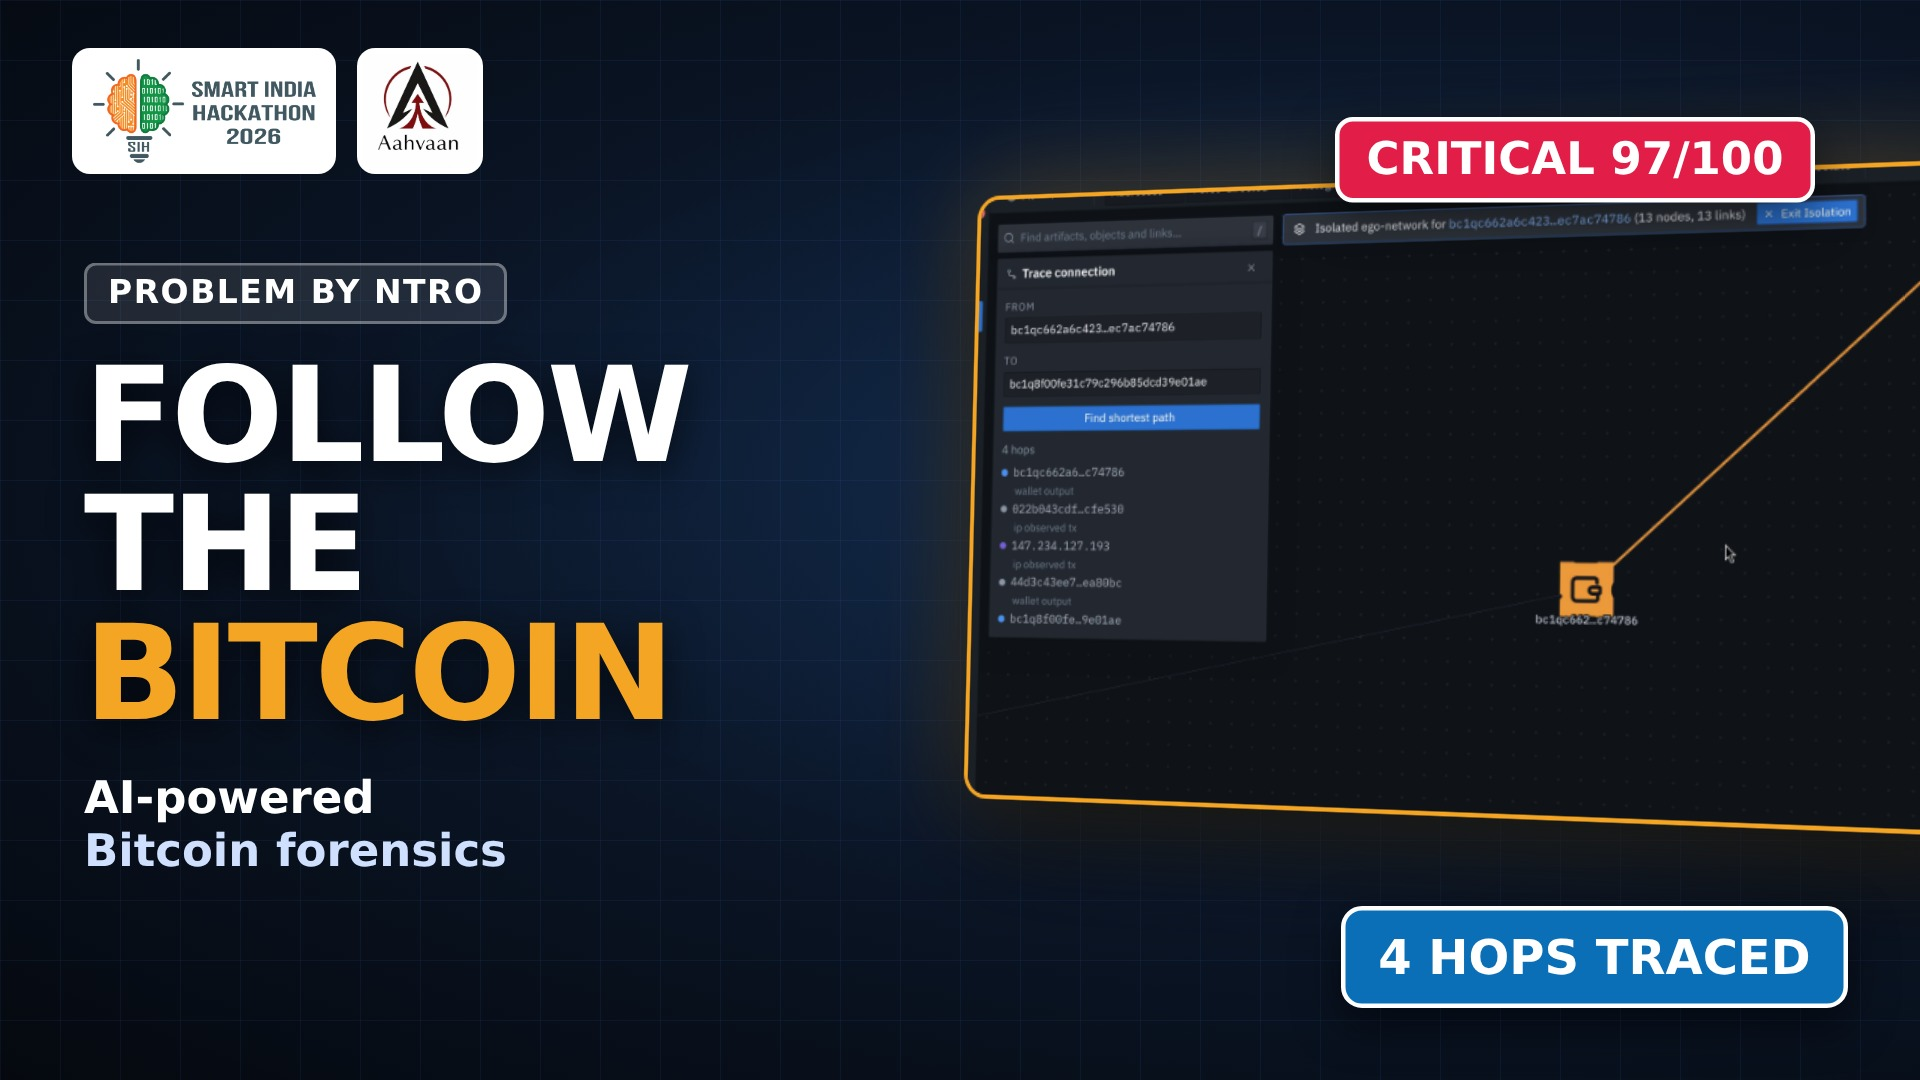
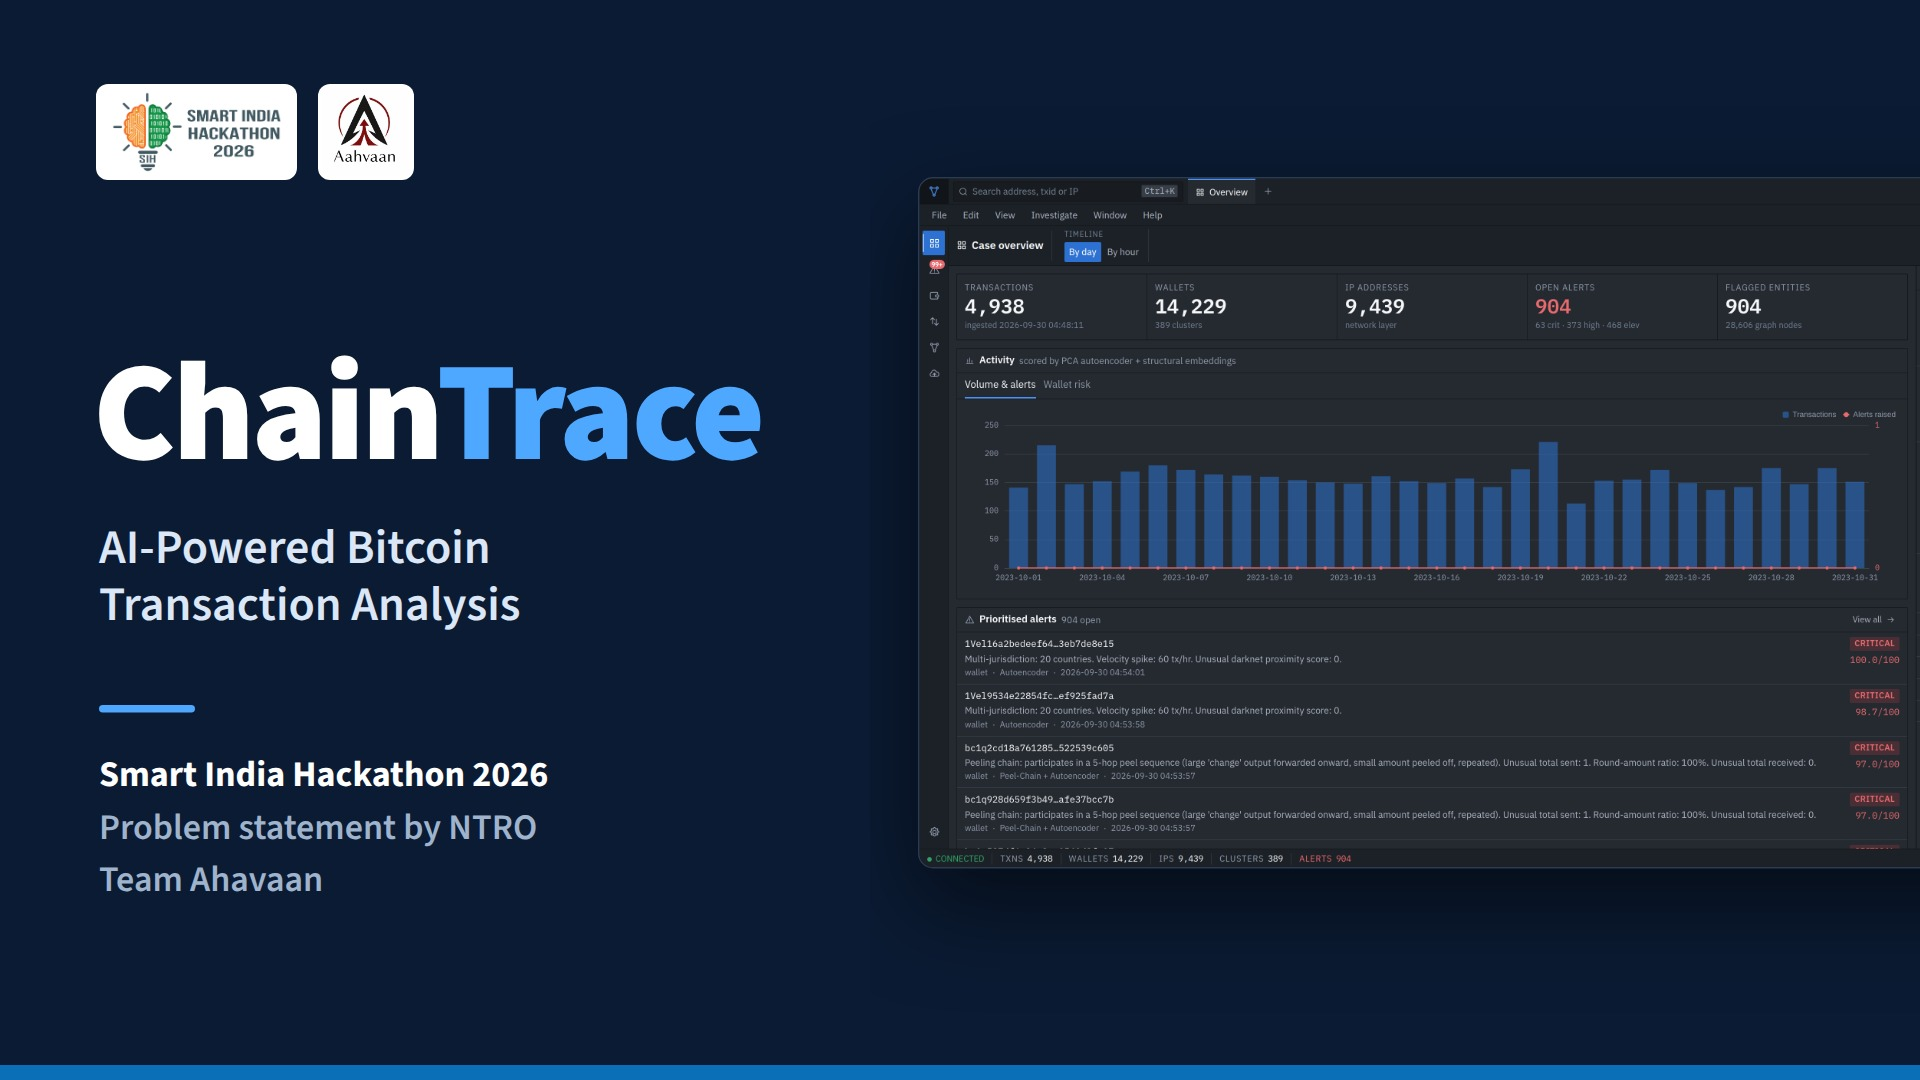
Redesign the YouTube thumbnail
A flat layout in the deck's colours: product name, one-line summary,
SIH details and an untilted screenshot of the Overview. Drops the
'4 hops traced' and score badges, which meant nothing out of context.

Claude-Session: https://claude.ai/code/session_01MZUeQ48kRSWcyL7zt8hQMu

diff --git a/demo_video/tools/thumb.html b/demo_video/tools/thumb.html
@@ -1,29 +1,27 @@
 <!doctype html><html><head><meta charset="utf-8"><style>
 *{margin:0;box-sizing:border-box}
-body{width:1280px;height:720px;overflow:hidden;position:relative;font-family:"DejaVu Sans",Arial,sans-serif;
- background:radial-gradient(ellipse at 75% 45%,#16345c 0%,#0a1424 55%,#05090f 100%);color:#fff}
-.grid{position:absolute;inset:0;background-image:linear-gradient(rgba(80,140,255,.07) 1px,transparent 1px),linear-gradient(90deg,rgba(80,140,255,.07) 1px,transparent 1px);background-size:40px 40px}
-.shot{position:absolute;right:-40px;top:120px;width:700px;height:420px;border-radius:14px;overflow:hidden;
- transform:perspective(1400px) rotateY(-14deg) rotateX(3deg);box-shadow:0 0 0 3px #f5a524,0 30px 80px rgba(0,0,0,.7),0 0 70px rgba(245,165,36,.35)}
-.shot img{position:absolute;left:-20px;top:-68px;width:1100px}
-.crit{position:absolute;right:70px;top:78px;background:#e11d48;border:3px solid #fff;border-radius:12px;padding:8px 18px;font-size:30px;font-weight:900;box-shadow:0 10px 30px rgba(0,0,0,.5)}
-.left{position:absolute;left:56px;top:175px;width:560px}
-.kicker{display:inline-block;background:rgba(255,255,255,.1);border:2px solid rgba(255,255,255,.35);color:#fff;font-weight:800;font-size:22px;padding:6px 14px;border-radius:8px;letter-spacing:1px}
-h1{margin-top:18px;font-size:88px;line-height:.98;font-weight:900;letter-spacing:-2px;text-shadow:0 6px 24px rgba(0,0,0,.6)}
-h1 .o{color:#f5a524}
-.sub{margin-top:22px;font-size:30px;font-weight:700;color:#cfe0ff}
-.sub b{color:#fff}
-.badge{position:absolute;right:48px;bottom:48px;background:#0b6fb8;border:3px solid #fff;border-radius:14px;padding:12px 22px;font-size:32px;font-weight:900;box-shadow:0 10px 30px rgba(0,0,0,.5)}
-.sih{position:absolute;left:48px;top:32px;height:84px;background:#fff;border-radius:12px;padding:6px 12px}
-.team{position:absolute;left:238px;top:32px;height:84px;border-radius:12px;background:#fff;padding:4px}
+body{width:1280px;height:720px;overflow:hidden;position:relative;background:#0b1b33;font-family:"Source Sans 3",sans-serif;color:#fff}
+.panel{position:absolute;left:0;top:0;bottom:0;width:580px;background:#0b1b33;z-index:2}
+.shot{position:absolute;left:612px;top:118px;width:820px;height:461px;border-radius:10px;overflow:hidden;
+ box-shadow:0 24px 60px rgba(0,0,0,.55);border:1px solid rgba(255,255,255,.14)}
+.shot img{width:100%;display:block}
+.logos{position:absolute;left:64px;top:56px;display:flex;gap:14px;align-items:center}
+.logos img{height:64px;background:#fff;border-radius:8px;padding:5px 10px}
+.logos img.team{padding:3px}
+.title{position:absolute;left:62px;top:230px;font-size:94px;font-weight:900;letter-spacing:-2px;line-height:1}
+.title span{color:#4ea8ff}
+.sub{position:absolute;left:66px;top:346px;width:470px;font-size:32px;font-weight:600;line-height:1.2;color:#dbe7f7}
+.rule{position:absolute;left:66px;top:470px;width:64px;height:5px;background:#4ea8ff;border-radius:3px}
+.meta{position:absolute;left:66px;top:500px;font-size:24px;line-height:1.45;color:#9fb3cc;font-weight:600}
+.meta b{color:#fff;font-weight:700}
+.bar{position:absolute;left:0;right:0;bottom:0;height:10px;background:#0b6fb8;z-index:3}
 </style></head><body>
-<div class="grid"></div>
-<div class="shot"><img src="f96.png"></div>
-<img class="sih" src="sih.png"><img class="team" src="logo.jpg">
-<div class="left">
- <span class="kicker">PROBLEM BY NTRO</span>
- <h1>FOLLOW<br>THE <span class="o">BITCOIN</span></h1>
- <div class="sub"><b>AI-powered</b><br>Bitcoin forensics</div>
-</div>
-<div class="badge">4 HOPS TRACED</div><div class="crit">CRITICAL 97/100</div>
+<div class="shot"><img src="app_overview.png"></div>
+<div class="panel"></div>
+<div class="logos" style="z-index:3"><img src="sih.png"><img class="team" src="logo.jpg"></div>
+<div class="title" style="z-index:3">Chain<span>Trace</span></div>
+<div class="sub" style="z-index:3">AI-Powered Bitcoin<br>Transaction Analysis</div>
+<div class="rule" style="z-index:3"></div>
+<div class="meta" style="z-index:3"><b>Smart India Hackathon 2026</b><br>Problem statement by NTRO<br>Team Ahavaan</div>
+<div class="bar"></div>
 </body></html>
